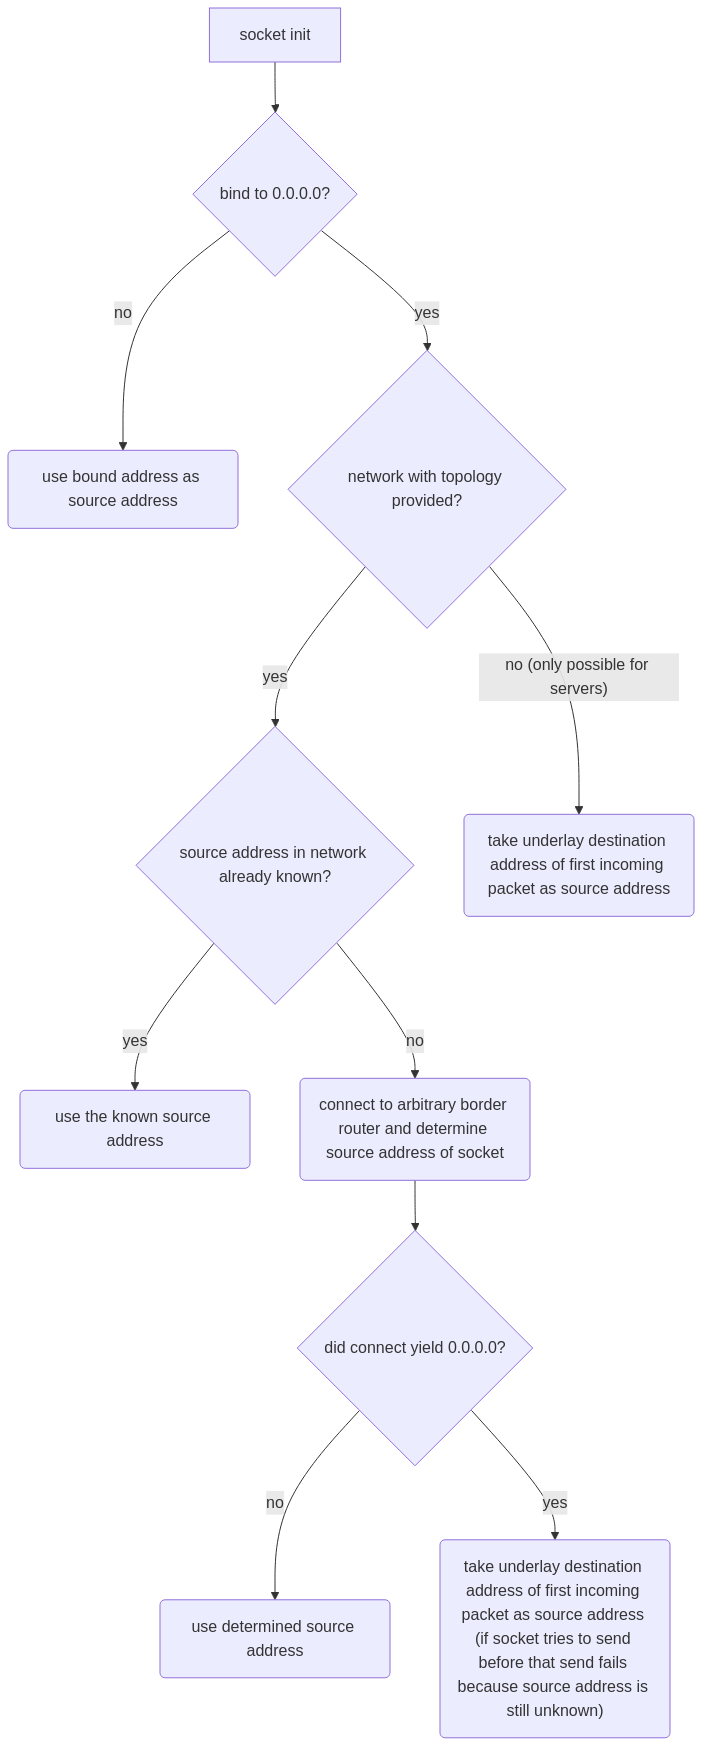
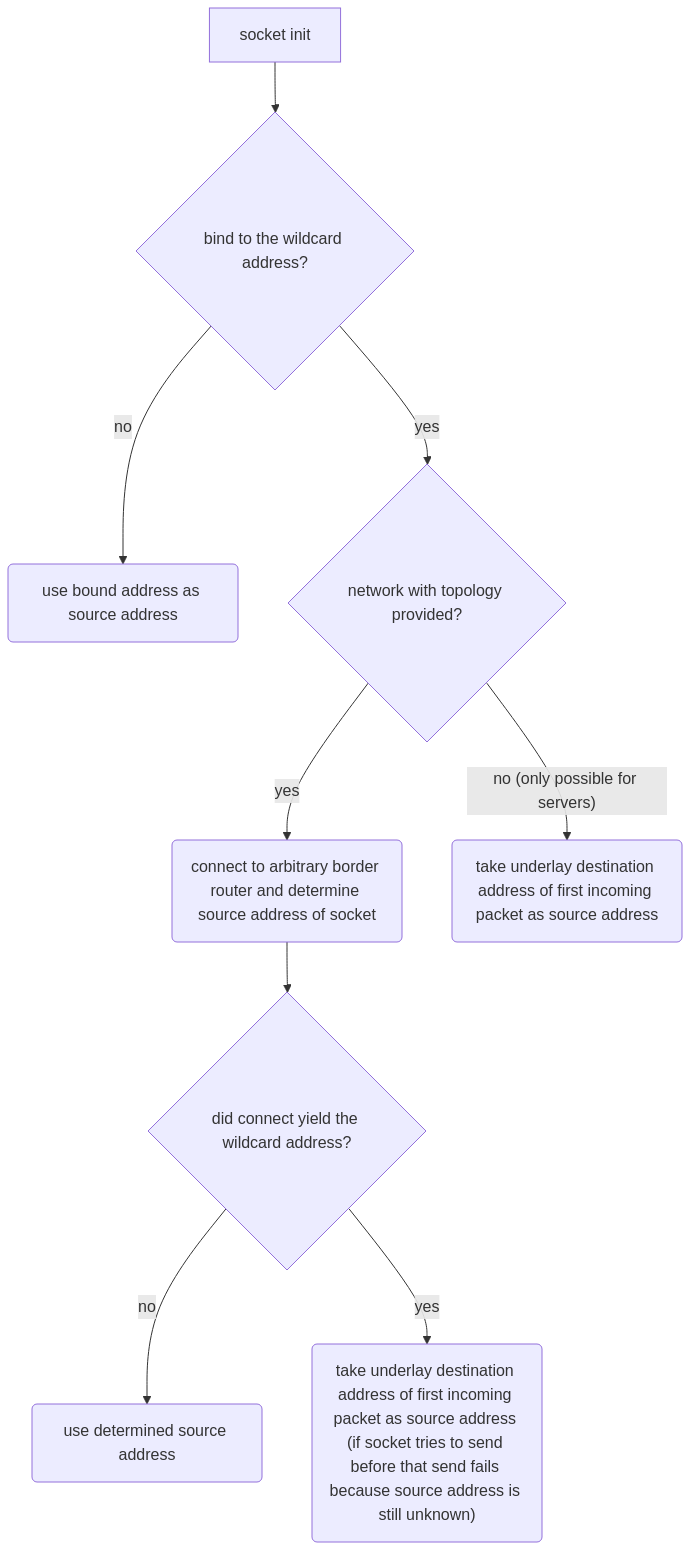
feat(socket): remove source address caching from network

diff --git a/lib/data_plane/socket.c b/lib/data_plane/socket.c
@@ -148,18 +148,12 @@ static void set_source_address(struct scion_socket *socket, struct sockaddr *add
 		sockaddr_copy_port((struct sockaddr *)&socket->src_addr, &socket->src_addr_len, addr, addr_len);
 	}
 
+	// Only set the address if it is not the wildcard address
 	if (!sockaddr_is_any(addr)) {
 		socket->src_addr_len = sizeof(socket->src_addr);
 		sockaddr_copy_address((struct sockaddr *)&socket->src_addr, &socket->src_addr_len, addr, addr_len);
 
 		socket->is_src_addr_set = true;
-
-		// Set source address of network if not known yet
-		if (socket->network != NULL && !socket->network->src_addr_known) {
-			socket->network->src_addr_len = sizeof(socket->network->src_addr);
-			sockaddr_copy_address(
-				(struct sockaddr *)&socket->network->src_addr, &socket->network->src_addr_len, addr, addr_len);
-		}
 	}
 }
 
@@ -280,29 +274,24 @@ int scion_socket(struct scion_socket **scion_sock, enum scion_addr_family addr_f
 
 	scion_sock_storage->src_addr_len = sizeof(scion_sock_storage->src_addr);
 
-	if (scion_sock_storage->network != NULL) {
-		if (scion_sock_storage->network->src_addr_known) {
-			set_source_address(scion_sock_storage, (struct sockaddr *)&scion_sock_storage->network->src_addr,
-				scion_sock_storage->network->src_addr_len, /* with_port */ false);
-		} else {
-			struct scion_underlay probe_underlay;
+	if (network != NULL) {
+		struct scion_underlay probe_underlay;
 
-			// get arbitrary border router
-			ret = scion_topology_next_underlay_hop(
-				scion_sock_storage->network->topology, SCION_INTERFACE_ANY, &probe_underlay);
-			if (ret != 0) {
-				return ret;
-			}
-
-			struct sockaddr_storage src_addr;
-			socklen_t src_addr_len = sizeof(src_addr);
-			ret = scion_underlay_probe(&probe_underlay, (struct sockaddr *)&src_addr, &src_addr_len);
-			if (ret != 0) {
-				return ret;
-			}
-
-			set_source_address(scion_sock_storage, (struct sockaddr *)&src_addr, src_addr_len, /* with_port */ false);
+		// get arbitrary border router
+		ret = scion_topology_next_underlay_hop(network->topology, SCION_INTERFACE_ANY, &probe_underlay);
+		if (ret != 0) {
+			return ret;
 		}
+
+		struct sockaddr_storage src_addr;
+		socklen_t src_addr_len = sizeof(src_addr);
+		// determine the source address by connecting to the border router
+		ret = scion_underlay_probe(&probe_underlay, (struct sockaddr *)&src_addr, &src_addr_len);
+		if (ret != 0) {
+			return ret;
+		}
+
+		set_source_address(scion_sock_storage, (struct sockaddr *)&src_addr, src_addr_len, /* with_port */ false);
 	}
 
 	*scion_sock = scion_sock_storage;

diff --git a/lib/include/scion/scion.h b/lib/include/scion/scion.h
@@ -176,8 +176,6 @@ enum scion_error {
 	 * @see [Source Address Determination](docs/design/source_address_determination.md)
 	 */
 	SCION_SRC_ADDR_UNKNOWN = -31,
-	// TODO document me or remove me
-	SCION_NETWORK_SOURCE_ADDR_ERR = -32,
 	// Internal errors
 	SCION_NOT_ENOUGH_DATA = -201,
 	SCION_PACKET_FIELD_INVALID = -202,

diff --git a/lib/error.c b/lib/error.c
@@ -83,8 +83,6 @@ char *scion_strerror(int err)
 		return "address buffer error";
 	case SCION_PATH_EXPIRED:
 		return "path expired";
-	case SCION_NETWORK_SOURCE_ADDR_ERR:
-		return "could not determine network source address";
 	case SCION_NOT_BOUND:
 		return "socket is not bound";
 	case SCION_NETWORK_UNKNOWN:

diff --git a/lib/control_plane/network.c b/lib/control_plane/network.c
@@ -34,9 +34,6 @@ int scion_network(struct scion_network **net, struct scion_topology *topology)
 
 	new_net->topology = topology;
 
-	new_net->src_addr_len = sizeof(struct sockaddr_storage);
-	new_net->src_addr_known = false;
-
 	*net = new_net;
 
 	return 0;

diff --git a/lib/control_plane/network.h b/lib/control_plane/network.h
@@ -19,9 +19,6 @@
 
 struct scion_network {
 	struct scion_topology *topology;
-	struct sockaddr_storage src_addr;
-	socklen_t src_addr_len;
-	bool src_addr_known;
 };
 
 int scion_network(struct scion_network **net, struct scion_topology *topology);

diff --git a/docs/design/source_address_determination.md b/docs/design/source_address_determination.md
@@ -1,9 +1,11 @@
 # Source Address Determination
 
 In SCION the source address of a sending host needs to be known in order to be able to send a packet. The easiest way to
-achieve this is to explicitly bind a socket to an address other than `0.0.0.0` with `scion_bind()`.
+achieve this is to explicitly bind a socket to an address other than the wildcard address with `scion_bind()`. The
+**wildcard address** is the IPv4 address `0.0.0.0` or the IPv6 address `::`.
 
-In cases where a socket is implicitly or explicitly bound to `0.0.0.0` the library tries automatically determine the
+In cases where a socket is implicitly or explicitly bound to the wildcard address the library tries automatically
+determine the
 source address with different methods. This automatic source address determination makes the following assumption:
 > in the network (AS) all communication partners (hosts and border routers) can reach the host running CSNET with **one
 > and the same** address
@@ -13,4 +15,4 @@ The source address of a socket is determined as follows:
 ![Source Address Determination](source_address_determination.png)
 
 Note that it is possible for the automatic source address determination to fail (sending will result with a
-`SCION_SRC_ADDR_UNKNOWN` error). In such cases, the non-wildcard source address has to be bound explicitly.
+`SCION_SRC_ADDR_UNKNOWN` error). In such cases, a non-wildcard address has to be bound explicitly.
